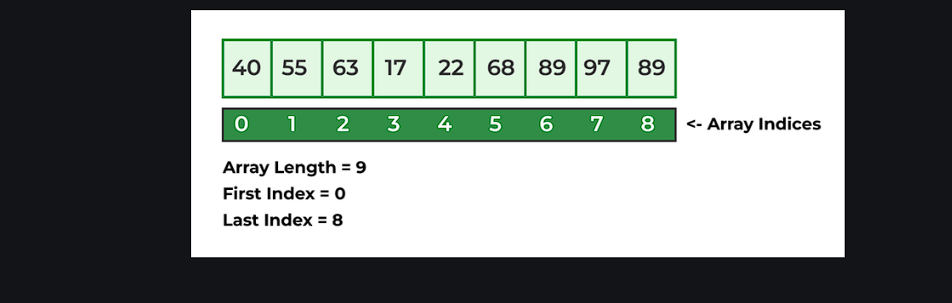
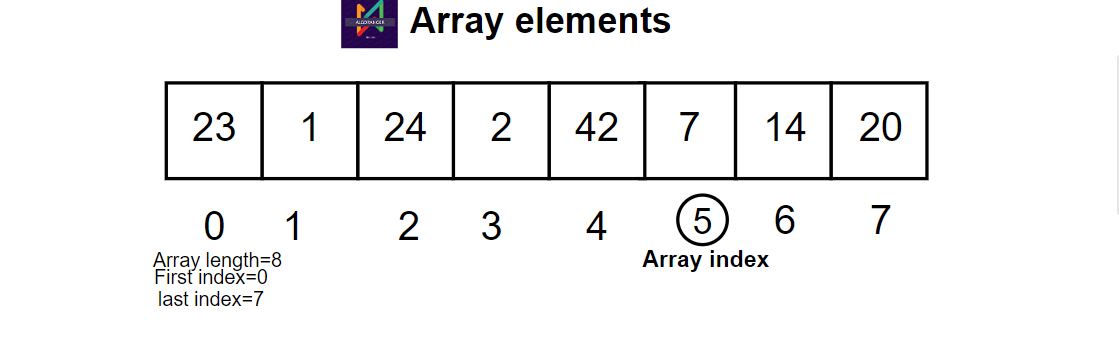
images update

diff --git a/learn/learnpage_intro.html b/learn/learnpage_intro.html
@@ -116,15 +116,15 @@ body.addEventListener("click" , e =>{
 <div class="topic_div">Array</div>
 <div id="Array_intro">
     <div class="quote_div">Introduction to Array</div>
-    <div class="Note_div">Array overview: <br>An array is a collection of items stored at contiguous memory locations. The idea is to store multiple items of the same type together. This makes it easier to calculate the position of each element by simply adding an offset to a base value, i.e., the memory location of the first element of the array (generally denoted by the name of the array)..</div>
+    <div class="Note_div">Array overview: <br>The concept of an array is used in computer programming to describe a contiguous collection of items of the same type, with each element positioned relative to its base memory location to facilitate efficient storage and retrieval. An array simplifies calculations and operations by grouping similar data, allowing easy access to each element through a calculated offset. Providing a systematic approach to organizing and manipulating related data in a program, this fundamental data structure enhances code readability and efficiency.</div>
     
-    <div class="array_img"><img src="/image/Array-data-structure img.png" alt="Nature" class="responsive"></div>
+    <div class="array_img"><img src="/image/array_intro_algo_image.png" alt="Nature" class="responsive"></div>
     <div class="img_explained">Basic terminologies of Array <br><pre>
 <li>We can directly access an array element by using its index value.
 </li>
-Array Index: In an array, elements are identified by their indexes. Array index starts from 0.
-Array element: Elements are items stored in an array and can be accessed by their index.
-Array Length: The length of an array is determined by the number of elements it can contain. </div>
+Array Index:Array indexing starts with 0 so each element of an array is uniquely identified by its indexes.
+Array element: An individual item stored inside the array that may be retrieved by providing its index is known as the array element.  
+Array Length: The longest possible array is the number of elements it can contain.  </div>
 </pre>
 </div>
 
@@ -156,9 +156,9 @@ types
         
         In this article we are going to be looking at the array data structure. We’ll be looking at some of the fundamental characteristics of the structure and how we can best leverage this within our own programs.
         
-        Intro
-        Arrays represent a collection of elements, these elements can be of different types; integers, characters, strings, floating-point values and even composite types such as arrays which allows you to create nested array structures should you wish, or objects which are a group of elements all bundled together.
         
+
+        They make organisation easier by arranging goods neatly in designated boxes. Consider employing an array to manage a list of names with ease; it's like having a dedicated box specifically for names, improving data handling in your programmes.         
         For example, say we wanted to store a list of names. We could use an array which would contain all of the names we want like so:</div>
         <div class="array_img"><img src="/image/array_represenataion.png" alt="Nature" class="responsive"></div>
         <div class="Note_div" >
@@ -182,10 +182,10 @@ types
     <div class="quote_div">keynotes of Array</div>
     <div class="Note_div">Array: <br> <pre>
         Arrays are a fundamental data structure in computer science and programming. Here are some keynotes about arrays:
-<li>Definition: An array is a collection of elements, each identified by an index or a key.</li>
-<li>Homogeneous Elements: Arrays typically store elements of the same data type, although some languages allow mixed types</li>
-<li>Fixed Size: Arrays have a fixed size, meaning the number of elements they can hold is determined at the time of creation 
-    and cannot be easily changed</li>
+<li>Definition:An array is a collection of elements, each of which is identified by an index.</li>
+<li>Homogeneous Elements: Arrays normally hold items of the same data type, while certain languages allow for mixed kinds.</li>
+<li>Fixed Size: Arrays have a fixed size, which means that the number of elements they can carry is specified at the time 
+    of creation and cannot be easily adjusted.</li>
 
 </li>
     </pre></div>

diff --git a/styles/learnpage_intro.css b/styles/learnpage_intro.css
@@ -438,7 +438,7 @@ font-weight: 800;
 .quote_div{
 margin: 0 auto;
 width: 800px;
-min-height: 15px;
+min-height: 100px;
 overflow: hidden;
 background-color: #282525;
 color: white;
